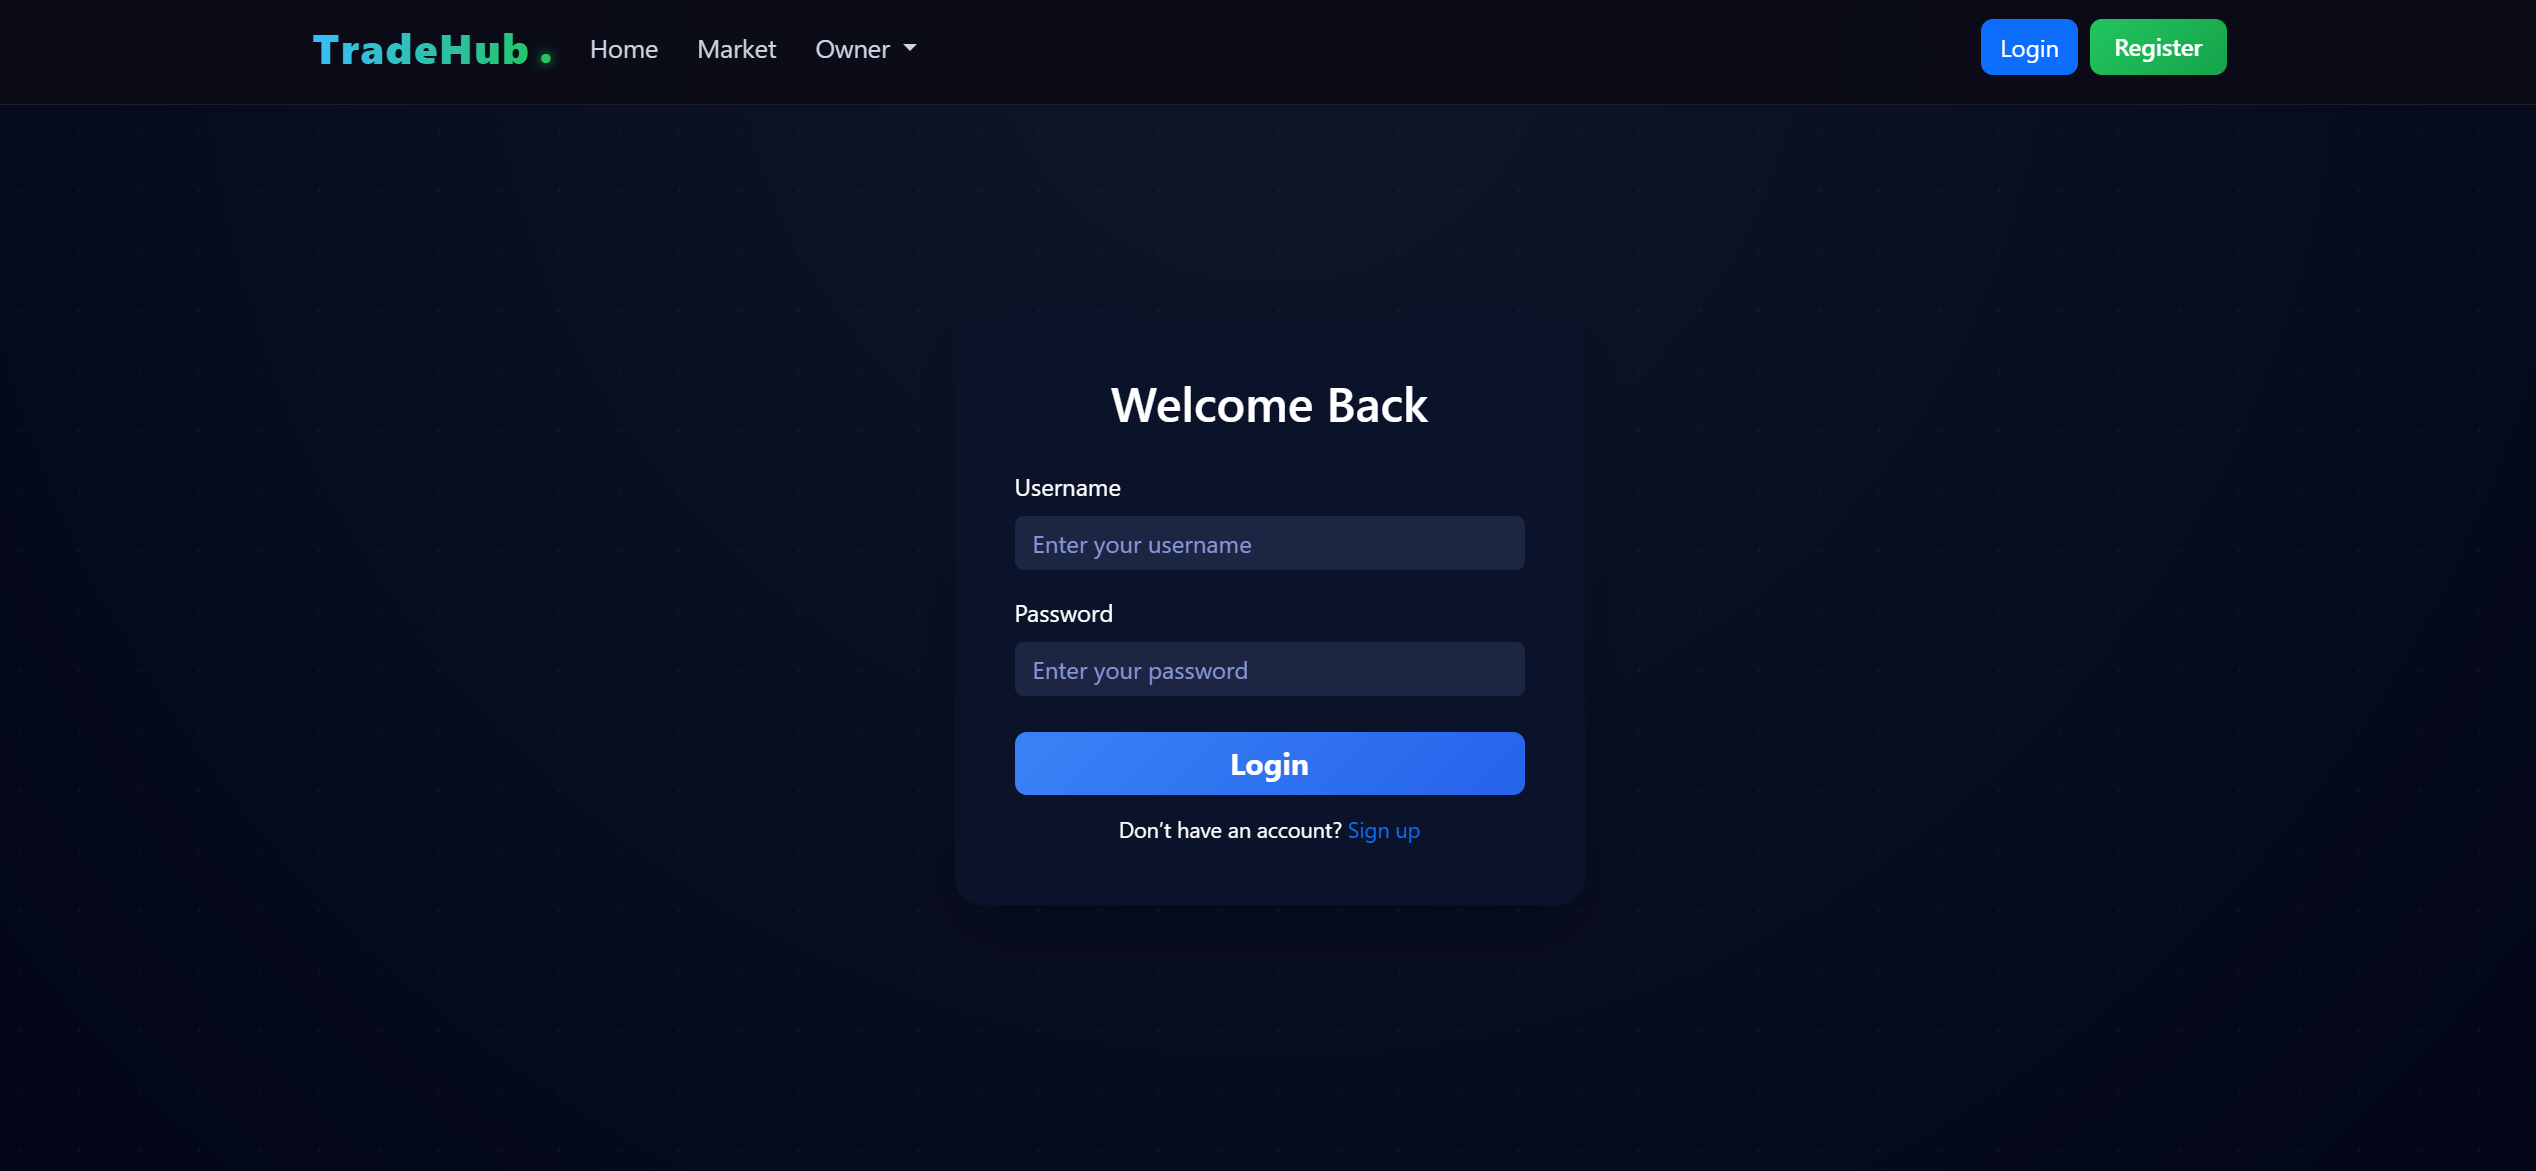
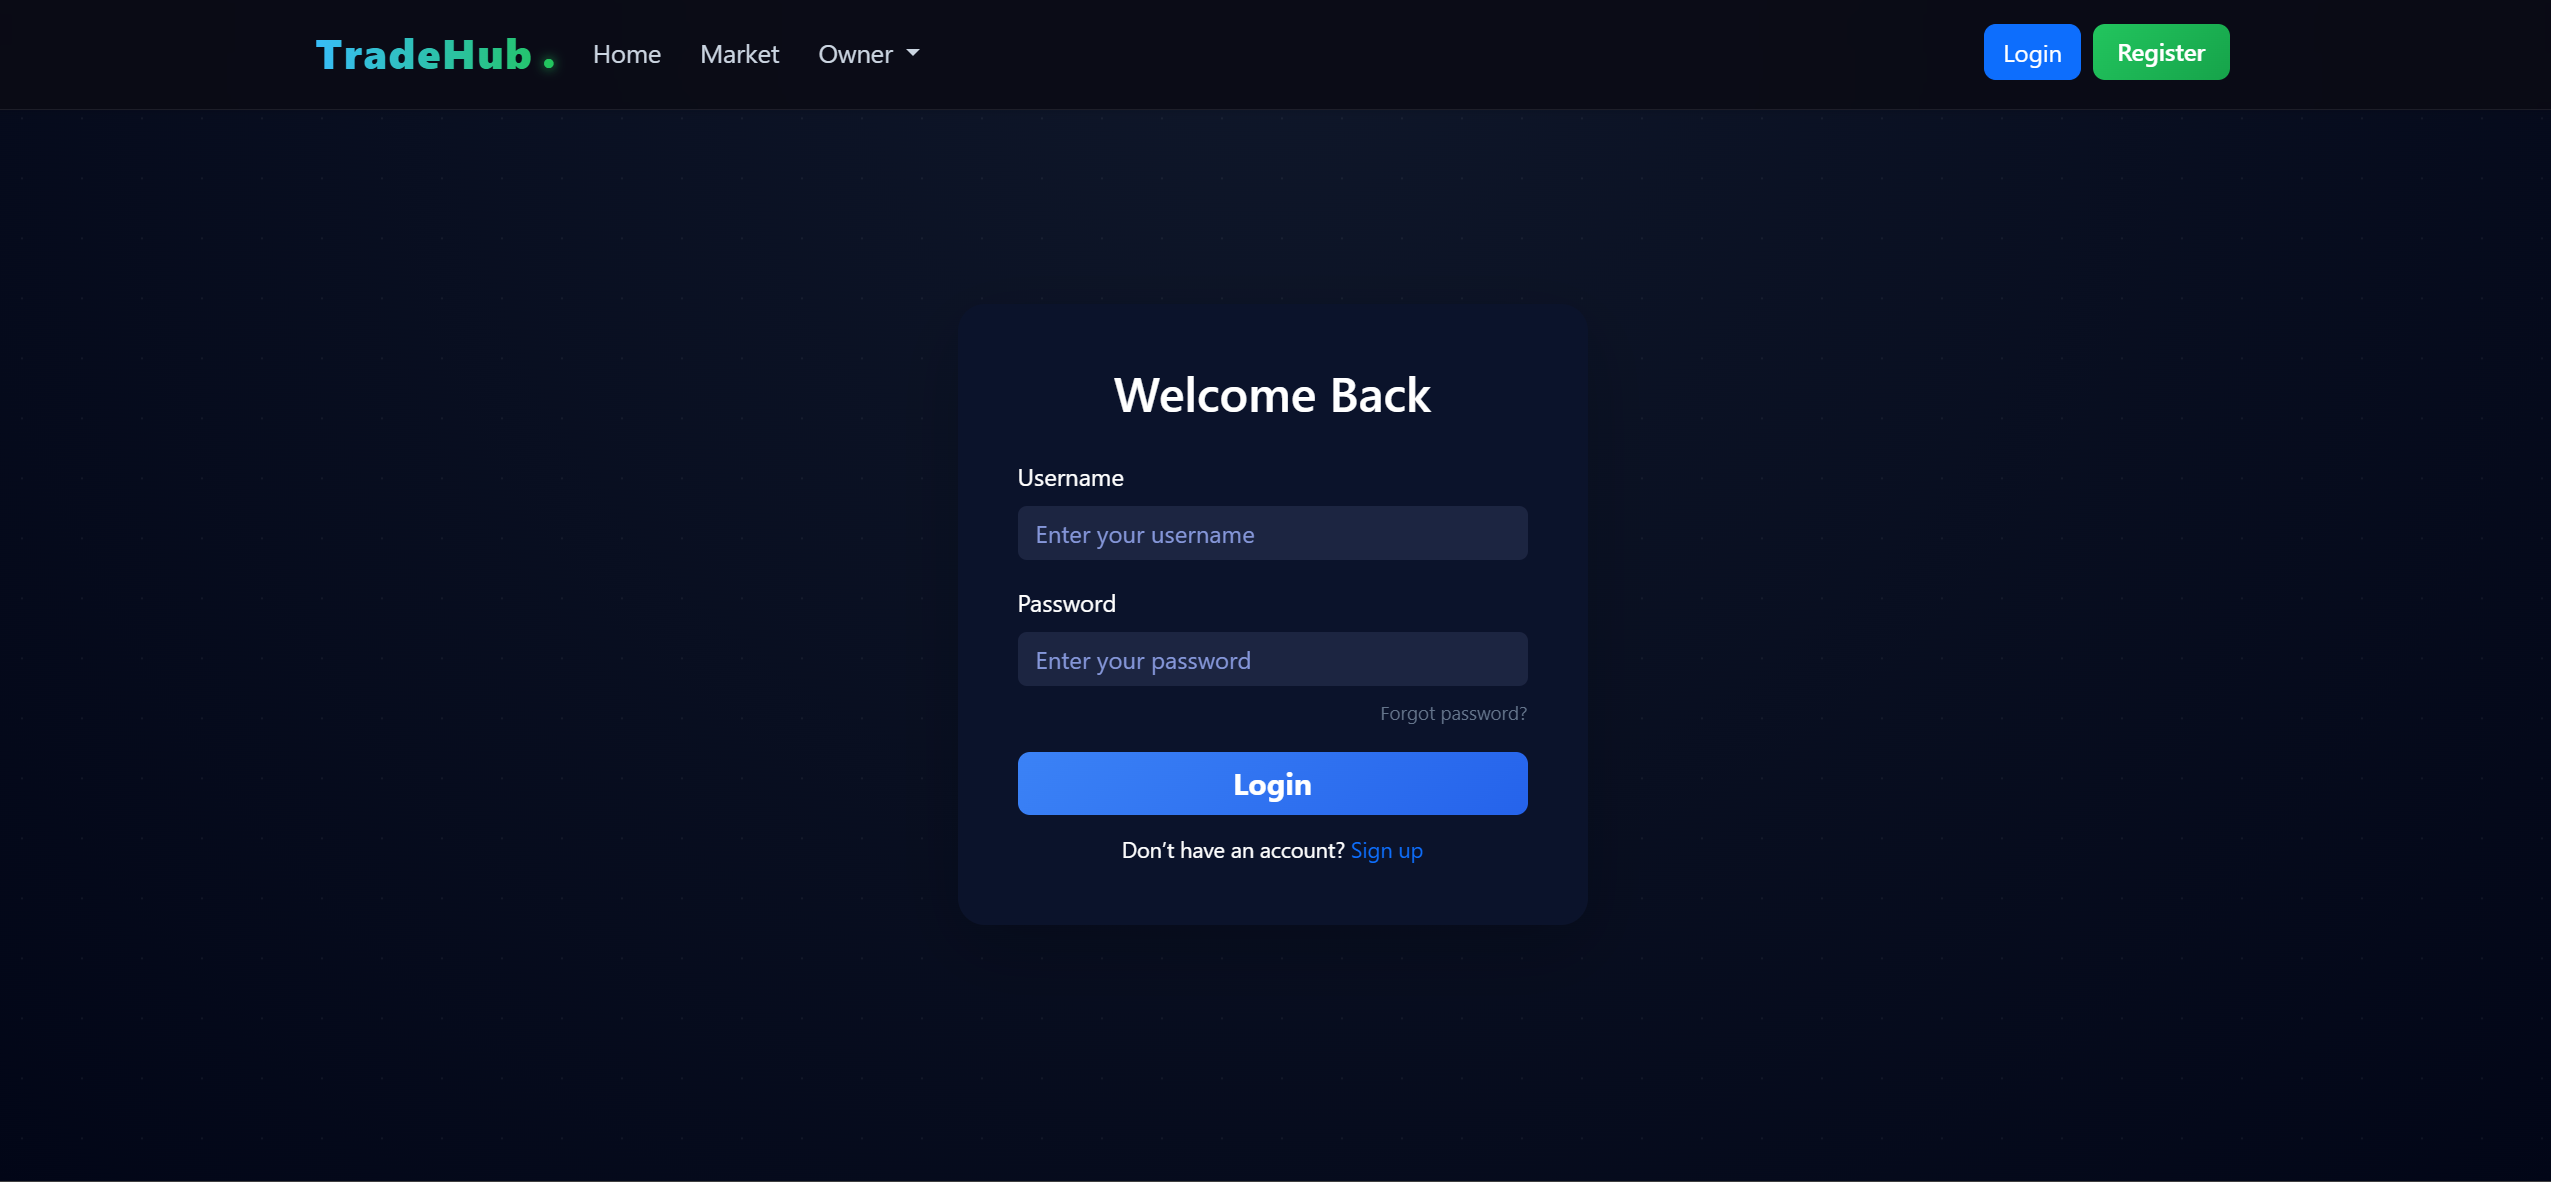
docs: update README with password reset flow, change password feature, new screenshots and project structure

diff --git a/README.md b/README.md
@@ -26,6 +26,7 @@
 ![Flask--Login](https://img.shields.io/badge/Flask--Login-0.6.3-FF7043?style=for-the-badge&logo=flask&logoColor=white)
 ![Flask--Bcrypt](https://img.shields.io/badge/Flask--Bcrypt-1.0.1-4CAF50?style=for-the-badge&logo=flask&logoColor=white)
 ![Flask--WTF](https://img.shields.io/badge/Flask--WTF-1.2.2-00BCD4?style=for-the-badge&logo=flask&logoColor=white)
+![Flask--Mail](https://img.shields.io/badge/Flask--Mail-0.10.0-EA4335?style=for-the-badge&logo=gmail&logoColor=white)
 
 <!-- Meta -->
 
@@ -56,6 +57,9 @@
 - ✅ Secure Login & Logout
 - ✅ Session Management via Flask-Login
 - ✅ Password hashing
+- ✅ Forgot password via email verification
+- ✅ 6-digit code sent to registered email
+- ✅ Change password from navbar
 
 </td>
 <td width="50%">
@@ -88,6 +92,8 @@
 - ✅ All owned items returned to market on deletion
 - ✅ Instant session termination
 - ✅ Flash notification system
+- ✅ Change password with current password verification
+- ✅ Forgot password fallback from change password page
 
 </td>
 </tr>
@@ -108,17 +114,22 @@ User sells item →  Item RELEASED back to market →  Anyone can buy it again
 
 ## 🖼 Screenshots
 
-| Page              | Preview                                        |
-| ----------------- | ---------------------------------------------- |
-| 🏠 Home           | ![Home](screenshots/home.png)                  |
-| 📝 Register       | ![Register](screenshots/register.png)          |
-| 🔐 Login          | ![Login](screenshots/login.png)                |
-| 🛒 Market         | ![Market](screenshots/market.png)              |
-| 🔍 Item Details   | ![Details](screenshots/show_details_modal.png) |
-| 💸 Buy Item       | ![Buy Modal](screenshots/buy_modal.png)        |
-| 📦 Owned Items    | ![Owned Items](screenshots/owned_items.png)    |
-| 💵 Sell Item      | ![Sell Modal](screenshots/sell_modal.png)      |
-| ❌ Delete Account | ![Delete Modal](screenshots/delete_modal.png)  |
+| Page                | Preview                                               |
+| ------------------- | ----------------------------------------------------- |
+| 🏠 Home             | ![Home](screenshots/home.png)                         |
+| 📝 Register         | ![Register](screenshots/register.png)                 |
+| 🔐 Login            | ![Login](screenshots/login.png)                       |
+| 🛒 Market           | ![Market](screenshots/market.png)                     |
+| 🔍 Item Details     | ![Details](screenshots/show_details_modal.png)        |
+| 💸 Buy Item         | ![Buy Modal](screenshots/buy_modal.png)               |
+| 📦 Owned Items      | ![Owned Items](screenshots/owned_items.png)           |
+| 💵 Sell Item        | ![Sell Modal](screenshots/sell_modal.png)             |
+| ❌ Delete Account   | ![Delete Modal](screenshots/delete_modal.png)         |
+| ⚙ Account Settings | ![Account Settings](screenshots/account_settings.png) |
+| 🔑 Forgot Password  | ![Forgot Password](screenshots/forgot_password.png)   |
+| 📩 Verify Code      | ![Verify Code](screenshots/verify_code.png)           |
+| 🛡 Reset Password   | ![Reset Password](screenshots/reset_password.png)     |
+| 🔒 Change Password  | ![Change Password](screenshots/change_password.png)   |
 
 ---
 
@@ -141,10 +152,14 @@ tradehub/
 │   │   ├── home.html                       # Landing page
 │   │   ├── login.html                      # Login form
 │   │   ├── register.html                   # Register form
-│   │   └── market.html                     # Marketplace (buy/sell/owned items)
+│   │   ├── market.html                     # Marketplace (buy/sell/owned items)
+│   │   ├── forgot_password.html            # Step 1 — enter email
+│   │   ├── verify_code.html                # Step 2 — enter 6-digit code
+│   │   ├── reset_password.html             # Step 3 — set new password
+│   │   └── change_password.html            # Change password while logged in
 │   │
 │   ├── __init__.py                         # App factory, DB init
-│   ├── forms.py                            # WTForms (Register, Login, Market)
+│   ├── forms.py                            # WTForms (RegisterForm, LoginForm, PurchaseItemForm, etc..)
 │   ├── models.py                           # User & Item models
 │   └── routes.py                           # All application routes
 │
@@ -155,16 +170,21 @@ tradehub/
 ├── instance/
 │   └── market.db                           # SQLite database (auto-generated)(not committed)
 │
-├── screenshots/                            # App screenshots for README
+├── screenshots/
 │   ├── home.png
 │   ├── register.png
 │   ├── login.png
 │   ├── market.png
+│   ├── account_settings.png            # Navbar dropdown with Change Password & Delete Account
 │   ├── show_details_modal.png
 │   ├── buy_modal.png
 │   ├── owned_items.png
 │   ├── sell_modal.png
-│   └── delete_modal.png
+│   ├── delete_modal.png
+│   ├── change_password.png
+│   ├── forgot_password.png
+│   ├── verify_code.png
+│   └── reset_password.png
 │
 ├── .gitignore
 ├── LICENSE
@@ -184,6 +204,7 @@ tradehub/
 | **ORM**       | Flask-SQLAlchemy + SQLAlchemy          | 3.1.1 + 2.0.46 |
 | **Auth**      | Flask-Login + Flask-Bcrypt             | 0.6.3 + 1.0.1  |
 | **Forms**     | Flask-WTF + WTForms                    | 1.2.2 + 3.2.1  |
+| **Email**     | Flask-Mail + Gmail SMTP                | 0.10.0         |
 | **Config**    | python-dotenv                          | 1.2.1          |
 | **Database**  | SQLite                                 | —              |
 | **Frontend**  | Bootstrap 5 + Custom CSS               | 5.x            |
@@ -221,6 +242,30 @@ tradehub/
       db.session.commit()
 5. Item REAPPEARS on public market
 6. Budget INCREASES instantly
+```
+
+### 🔑 Forgot Password Flow
+
+```
+1. User clicks "Forgot password?" on login page
+2. Enters registered email address
+3. Flask generates a 6-digit code and sends it via Flask-Mail
+4. User enters the code on verify page
+5. Flask checks code against session
+6. If correct → user sets new password
+7. Password hashed and updated in database
+8. Session cleared, redirected to login
+```
+
+### 🔒 Change Password Flow
+
+```
+1. Logged-in user opens navbar dropdown
+2. Clicks "Change Password"
+3. Enters current password + new password + confirmation
+4. Flask verifies current password against database hash
+5. If wrong → link to forgot password flow
+6. If correct → new password hashed and saved
 ```
 
 ---
@@ -272,13 +317,15 @@ python run.py
 
 ## 🧪 Try It Out
 
-| Action                 | What Happens                               |
-| ---------------------- | ------------------------------------------ |
-| Register a new account | Get $1,000 starting budget                 |
-| Buy an item            | It's removed from market, budget drops     |
-| Check market           | That item is GONE for everyone             |
-| Sell it back           | Item returns to market, you get money back |
-| Delete account         | Everything wiped, session ends             |
+| Action                 | What Happens                                  |
+| ---------------------- | --------------------------------------------- |
+| Register a new account | Get $1,000 starting budget                    |
+| Buy an item            | It's removed from market, budget drops        |
+| Check market           | That item is GONE for everyone                |
+| Sell it back           | Item returns to market, you get money back    |
+| Delete account         | Everything wiped, session ends                |
+| Forgot password        | Receive 6-digit code by email, reset password |
+| Change password        | Update password directly from navbar dropdown |
 
 ---
 
